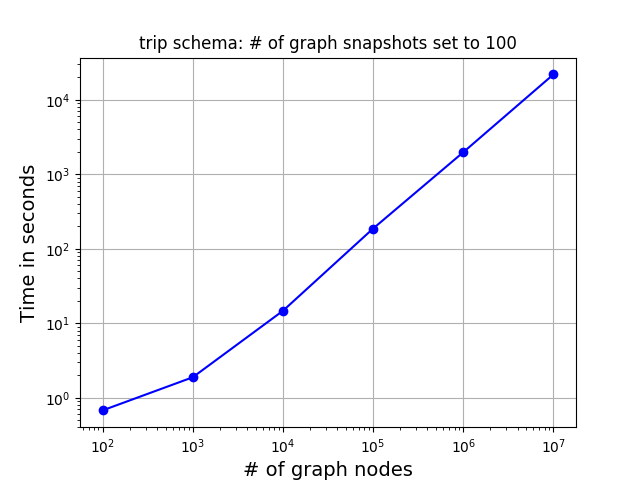
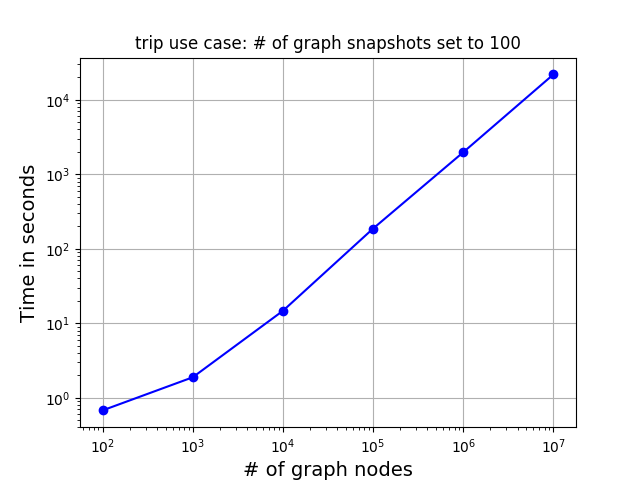
scalability: change schema to use case

Changed region(s): [[0.2188, 0.0625, 0.8125, 0.125]]

diff --git a/demo/scalability/plot_scal.py b/demo/scalability/plot_scal.py
@@ -44,9 +44,9 @@ plt.xscale("log", nonposx='clip')
 plt.yscale("log", nonposy='clip')
 plt.grid()
 if file_list[2] == "interval" :
-	plt.title(file_list[5]+" schema: "+"# of graph snapshots"+" set to "+file_list[4])
+	plt.title(file_list[5]+" use case: "+"# of graph snapshots"+" set to "+file_list[4])
 else :
-	plt.title(file_list[5]+" schema: "+"# of graph nodes"+" set to "+file_list[4])
+	plt.title(file_list[5]+" use case: "+"# of graph nodes"+" set to "+file_list[4])
 
 plt.savefig(file_list[2]+"_"+file_list[5]+".png")
 plt.clf()
